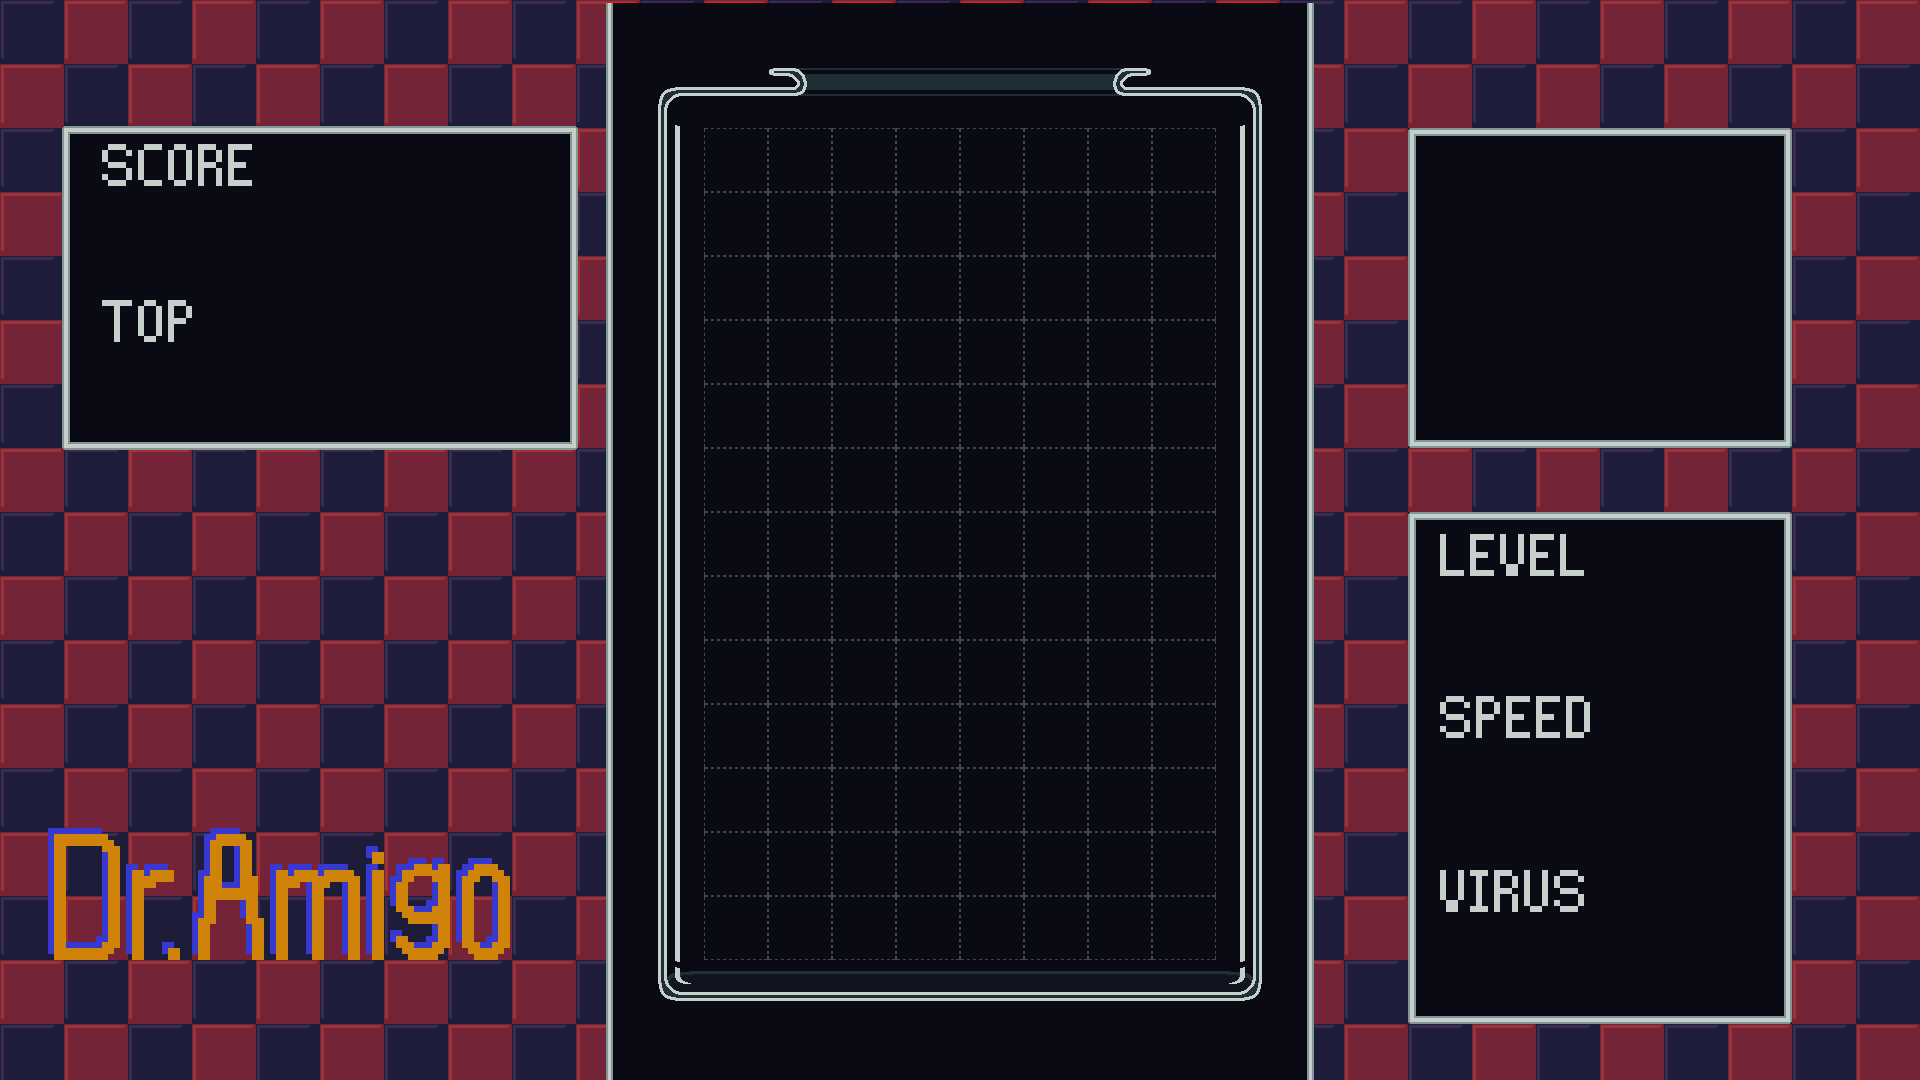
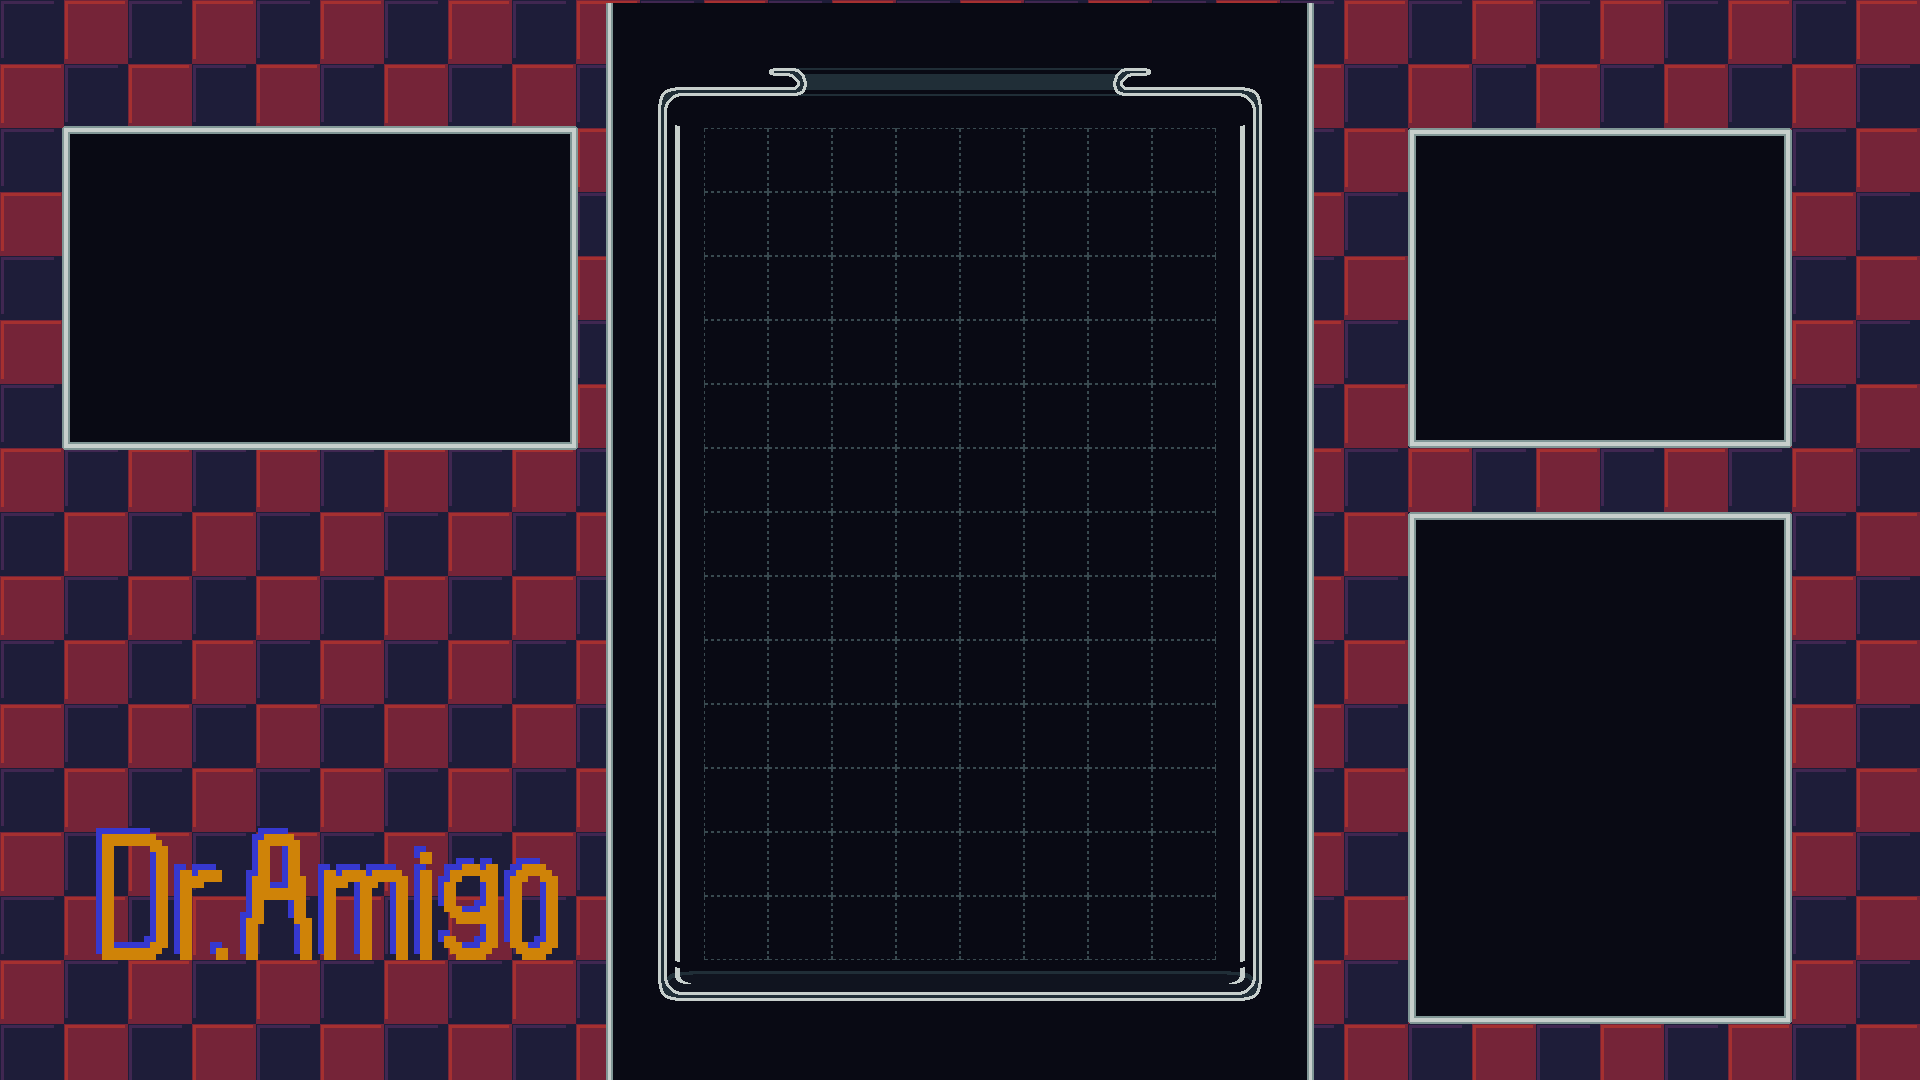
Title screen

diff --git a/Amigo/MainWindow.xaml b/Amigo/MainWindow.xaml
@@ -11,42 +11,42 @@
         WindowStyle="None"
         ResizeMode="NoResize"
         SizeChanged="Window_SizeChanged"
-        FontSize="45" Foreground="White">
-    <Grid>
-        <Grid.ColumnDefinitions>
-            <ColumnDefinition Width="*"/>
-            <ColumnDefinition x:Name="gameWidth" Width="*"/>
-            <ColumnDefinition Width="*"/>
-        </Grid.ColumnDefinitions>
-        <Grid.RowDefinitions>
-            <RowDefinition Height="1.01*"/>
-            <RowDefinition x:Name="gameHeight1" Height="*"/>
-            <RowDefinition x:Name="gameHeight2" Height="*"/>
-            <RowDefinition x:Name="gameHeight3" Height="*"/>
-            <RowDefinition Height="0.99*"/>
-        </Grid.RowDefinitions>
-        <Grid.Background>
-            <ImageBrush x:Name="background"/>
-        </Grid.Background>
-        <TextBlock Grid.Row="1" HorizontalAlignment="Center" x:Name="scoreText" />
-        <ContentControl Grid.Column="2" Grid.Row="1">
-            <Grid x:Name="preview">
-                <Grid.ColumnDefinitions>
-                    <ColumnDefinition Width="*"/>
-                    <ColumnDefinition Width=".45*"/>
-                    <ColumnDefinition Width="*"/>
-                </Grid.ColumnDefinitions>
-                <Grid.RowDefinitions>
-                    <RowDefinition Height=".5*"/>
-                    <RowDefinition Height="*"/>
-                    <RowDefinition Height="*"/>
-                </Grid.RowDefinitions>
-                <Image x:Name="mario" Grid.ColumnSpan="3" Grid.RowSpan="3" VerticalAlignment="Top"/>
-            </Grid>
-        </ContentControl>
+        FontSize="75" Foreground="White">
+    <Grid x:Name="mainGame">
+            <Grid.ColumnDefinitions>
+                <ColumnDefinition Width="*"/>
+                <ColumnDefinition x:Name="gameWidth" Width="*"/>
+                <ColumnDefinition Width="*"/>
+            </Grid.ColumnDefinitions>
+            <Grid.RowDefinitions>
+                <RowDefinition Height="1.01*"/>
+                <RowDefinition x:Name="gameHeight1" Height="*"/>
+                <RowDefinition x:Name="gameHeight2" Height="*"/>
+                <RowDefinition x:Name="gameHeight3" Height="*"/>
+                <RowDefinition Height="0.99*"/>
+            </Grid.RowDefinitions>
+            <Grid.Background>
+                <ImageBrush x:Name="background"/>
+            </Grid.Background>
+            <TextBlock Grid.Row="1" x:Name="scoreText" />
+            <ContentControl Grid.Column="2" Grid.Row="1">
+                <Grid x:Name="preview">
+                    <Grid.ColumnDefinitions>
+                        <ColumnDefinition Width="*"/>
+                        <ColumnDefinition Width=".45*"/>
+                        <ColumnDefinition Width="*"/>
+                    </Grid.ColumnDefinitions>
+                    <Grid.RowDefinitions>
+                        <RowDefinition Height=".5*"/>
+                        <RowDefinition Height="*"/>
+                        <RowDefinition Height="*"/>
+                    </Grid.RowDefinitions>
+                    <Image x:Name="mario" Grid.ColumnSpan="3" Grid.RowSpan="3" VerticalAlignment="Top"/>
+                </Grid>
+            </ContentControl>
 
-        <TextBlock Grid.RowSpan="2" HorizontalAlignment="Center" VerticalAlignment="Top" x:Name="infoText" Grid.Column="2" Grid.Row="2"/>
+            <TextBlock FontSize="60" Grid.RowSpan="2" HorizontalAlignment="Center" VerticalAlignment="Top" x:Name="infoText" Grid.Column="2" Grid.Row="2"/>
 
-        <ContentPresenter Grid.RowSpan="3" Grid.Row="1" Grid.Column="1" x:Name="game"/>
-    </Grid>
+            <ContentPresenter Grid.RowSpan="3" Grid.Row="1" Grid.Column="1" x:Name="game"/>
+        </Grid>
 </Window>

diff --git a/Amigo/MainWindow.xaml.cs b/Amigo/MainWindow.xaml.cs
@@ -28,21 +28,27 @@ namespace Amigo
 
         public MainWindow()
         {
+            gameState = GameState.title;
+            gameLevel = 1;
+
             InitializeComponent();
-            Start();
+            background.ImageSource = new BitmapImage(new Uri(Directory.GetCurrentDirectory() + @"\title.png"));
         }
         readonly int
             x = 8,
-            y = 13,
-            gameLevel = 1;
+            y = 13;
+        
+        int gameLevel;
 
         GameState gameState;
         readonly double
             fallSpeed = .5; // seconds to for fall
         Board board;
         public double points = 0;
-        public void Start()
+        public void Start(int gameLevel)
         {
+            gameState = GameState.playing;
+            this.gameLevel = gameLevel;
             SoundPlayer player = new SoundPlayer(Directory.GetCurrentDirectory() + @"\sound.wav");
             player.Load();
             player.Play();
@@ -52,11 +58,26 @@ namespace Amigo
             background.ImageSource = new BitmapImage(new Uri(Directory.GetCurrentDirectory() + @"\background.png"));
 
             board = new(gameLevel, x, y, this);
-            StartFallLoop();
         }
 
         private void Window_PreviewKeyDown(object sender, KeyEventArgs e)
         {
+            if (e.Key == Key.Enter)
+            {
+                if (gameState == GameState.win)
+                {
+                    Start(++gameLevel);
+                }
+                if (gameState == GameState.gameOver)
+                {
+                    Start(gameLevel);
+                }
+                if (gameState == GameState.title)
+                {
+                    Start(gameLevel);
+                    StartFallLoop();
+                }
+            }
             if (activePill == null)
                 return;
 
@@ -82,7 +103,7 @@ namespace Amigo
         public int Update()
         {
             int virusCount = 0;
-            scoreText.Text = points.ToString() + "\n\n\n\n" + "amogus";
+            scoreText.Text = "     Points: " + points.ToString() + "\n\n     Top: amogus";
             Grid grid = new Grid();
             for (int i = 0; i < x; i++)
             {
@@ -133,7 +154,7 @@ namespace Amigo
                 }
             }
             game.Content = grid;
-            infoText.Text = "\n\n" + gameLevel + "\n\n\n" + "69" + "\n\n\n\n" + virusCount;
+            infoText.Text = "\n\n     Game Level: " + gameLevel + "\n\n" + "     Game Speed: 69" + "\n\n     Virus Count: " + virusCount;
             return virusCount;
 
         }
@@ -152,6 +173,9 @@ namespace Amigo
                     gameState = GameState.win;
                 if (gameState == GameState.win)
                 {
+                    Image img = new Image();
+                    img.Source = new BitmapImage(new Uri(Directory.GetCurrentDirectory() + @"\gameWin.png"));
+                    game.Content = img;
                     mario.Source = new BitmapImage(new Uri(Directory.GetCurrentDirectory() + @"\marioWin.png"));
                     preview.Children.Remove(img1);
                     preview.Children.Remove(img2);
@@ -159,11 +183,11 @@ namespace Amigo
                 }
                 if (gameState == GameState.gameOver)
                 {
-                    Image img = new Image();
-                    img.Source = new BitmapImage(new Uri(Directory.GetCurrentDirectory() + @"\gameOver.png"));
                     mario.Source = new BitmapImage(new Uri(Directory.GetCurrentDirectory() + @"\marioDead.png"));
                     preview.Children.Remove(img1);
                     preview.Children.Remove(img2);
+                    Image img = new Image();
+                    img.Source = new BitmapImage(new Uri(Directory.GetCurrentDirectory() + @"\gameOver.png"));
                     game.Content = img;
                     return;
                 }
@@ -274,5 +298,6 @@ namespace Amigo
         playing,
         gameOver,
         win,
+        title
     }
 }
